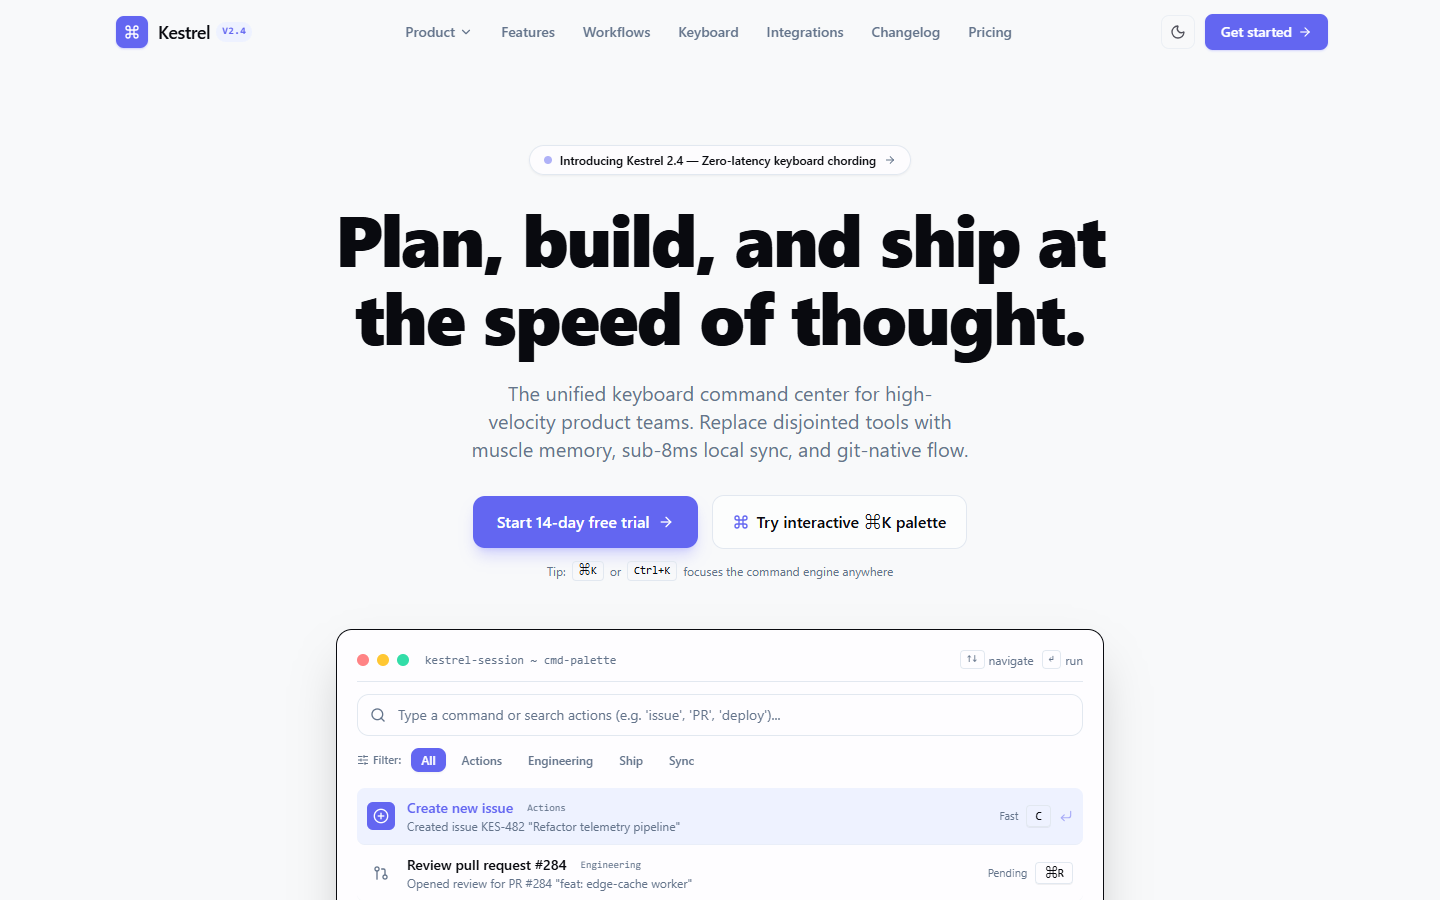
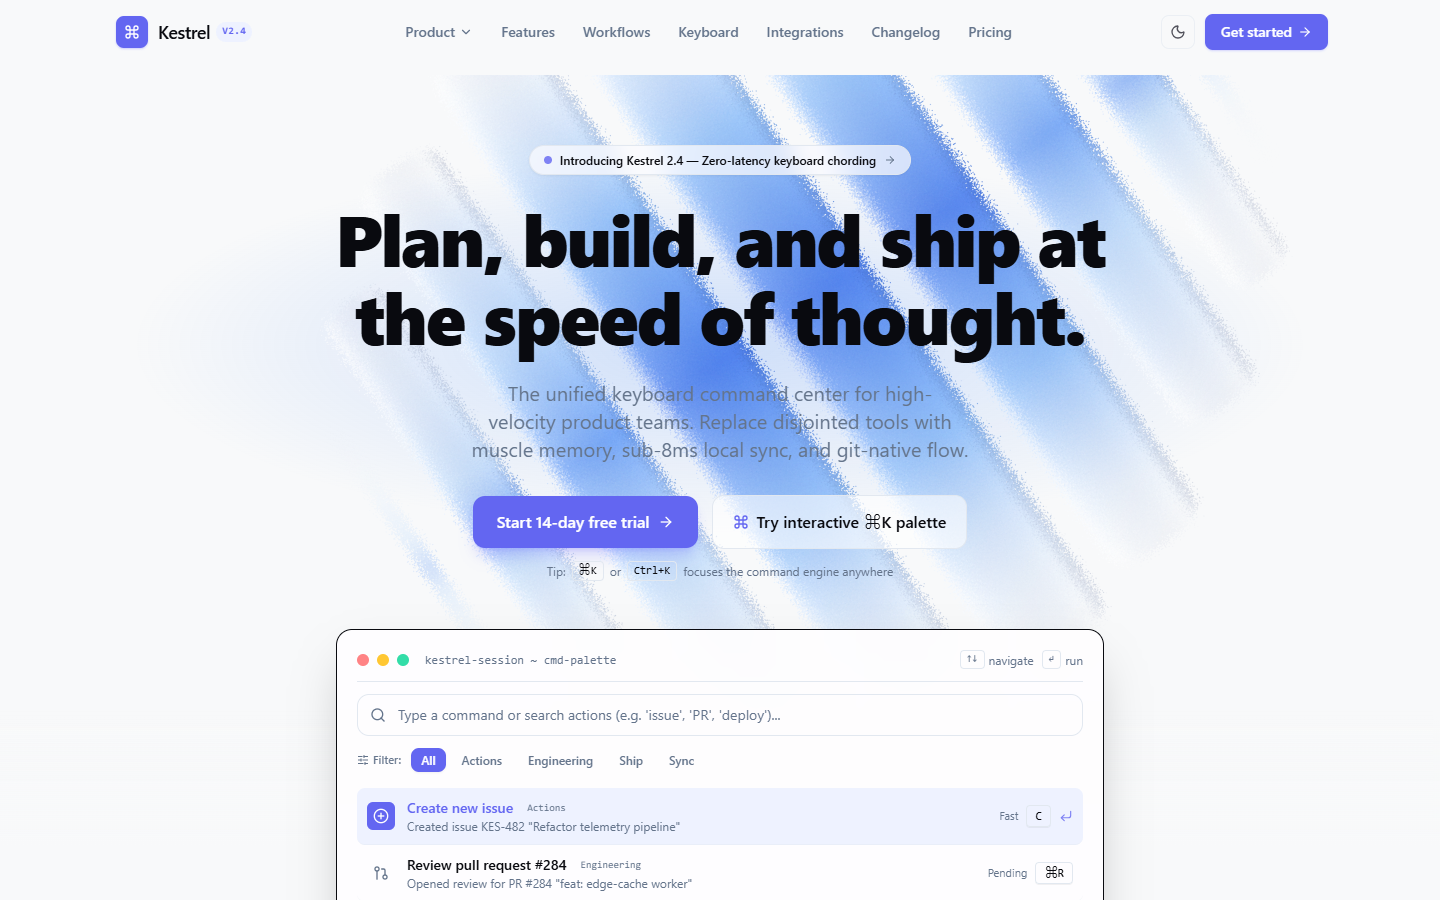
feat: switch hero 3D diagonal slats and glow to electric blue palette

Changed region(s): [[0.25, 0.0622, 0.875, 0.7156], [0.2812, 0.5911, 0.3125, 0.6533]]

diff --git a/components/HeroBackground.js b/components/HeroBackground.js
@@ -93,78 +93,78 @@ export default function HeroBackground() {
 
             {/* 3D Louvre Edge Bevel Gradient (Light Edge Highlight) */}
             <linearGradient id="slat-bevel-dark" x1="0%" y1="0%" x2="100%" y2="0%">
-              <stop offset="0%" stopColor="#ffffff" stopOpacity="0.4" />
-              <stop offset="12%" stopColor="#ffffff" stopOpacity="0.05" />
+              <stop offset="0%" stopColor="#ffffff" stopOpacity="0.45" />
+              <stop offset="12%" stopColor="#ffffff" stopOpacity="0.06" />
               <stop offset="85%" stopColor="#000000" stopOpacity="0" />
-              <stop offset="100%" stopColor="#000000" stopOpacity="0.45" />
+              <stop offset="100%" stopColor="#000000" stopOpacity="0.4" />
             </linearGradient>
 
             <linearGradient id="slat-bevel-light" x1="0%" y1="0%" x2="100%" y2="0%">
-              <stop offset="0%" stopColor="#ffffff" stopOpacity="0.65" />
-              <stop offset="15%" stopColor="#ffffff" stopOpacity="0.12" />
-              <stop offset="85%" stopColor="#4c0519" stopOpacity="0" />
-              <stop offset="100%" stopColor="#2a0812" stopOpacity="0.12" />
+              <stop offset="0%" stopColor="#ffffff" stopOpacity="0.7" />
+              <stop offset="15%" stopColor="#ffffff" stopOpacity="0.15" />
+              <stop offset="85%" stopColor="#1e3a8a" stopOpacity="0" />
+              <stop offset="100%" stopColor="#172554" stopOpacity="0.15" />
             </linearGradient>
 
-            {/* Dark Theme Longitudinal Gradients (Fiery Crimson / Ruby Red) */}
+            {/* Dark Theme Longitudinal Gradients (Electric Blue / Sapphire) */}
             <linearGradient id="slat-dark-center" x1="0%" y1="0%" x2="0%" y2="100%">
-              <stop offset="0%" stopColor="#4c0519" stopOpacity="0" />
-              <stop offset="8%" stopColor="#9f1239" stopOpacity="0.3" />
-              <stop offset="25%" stopColor="#e11d48" stopOpacity="0.95" />
-              <stop offset="50%" stopColor="#fda4af" stopOpacity="1" />
-              <stop offset="75%" stopColor="#e11d48" stopOpacity="0.95" />
-              <stop offset="92%" stopColor="#9f1239" stopOpacity="0.25" />
-              <stop offset="100%" stopColor="#4c0519" stopOpacity="0" />
+              <stop offset="0%" stopColor="#0f172a" stopOpacity="0" />
+              <stop offset="8%" stopColor="#1e40af" stopOpacity="0.35" />
+              <stop offset="25%" stopColor="#2563eb" stopOpacity="0.95" />
+              <stop offset="50%" stopColor="#93c5fd" stopOpacity="1" />
+              <stop offset="75%" stopColor="#2563eb" stopOpacity="0.95" />
+              <stop offset="92%" stopColor="#1e40af" stopOpacity="0.3" />
+              <stop offset="100%" stopColor="#0f172a" stopOpacity="0" />
             </linearGradient>
 
             <linearGradient id="slat-dark-mid" x1="0%" y1="0%" x2="0%" y2="100%">
-              <stop offset="0%" stopColor="#4c0519" stopOpacity="0" />
-              <stop offset="10%" stopColor="#881337" stopOpacity="0.25" />
-              <stop offset="28%" stopColor="#be123c" stopOpacity="0.9" />
-              <stop offset="50%" stopColor="#fb7185" stopOpacity="0.95" />
-              <stop offset="72%" stopColor="#be123c" stopOpacity="0.9" />
-              <stop offset="90%" stopColor="#881337" stopOpacity="0.2" />
-              <stop offset="100%" stopColor="#4c0519" stopOpacity="0" />
+              <stop offset="0%" stopColor="#08080b" stopOpacity="0" />
+              <stop offset="10%" stopColor="#1d4ed8" stopOpacity="0.3" />
+              <stop offset="28%" stopColor="#3b82f6" stopOpacity="0.9" />
+              <stop offset="50%" stopColor="#60a5fa" stopOpacity="0.95" />
+              <stop offset="72%" stopColor="#3b82f6" stopOpacity="0.9" />
+              <stop offset="90%" stopColor="#1d4ed8" stopOpacity="0.25" />
+              <stop offset="100%" stopColor="#08080b" stopOpacity="0" />
             </linearGradient>
 
             <linearGradient id="slat-dark-outer" x1="0%" y1="0%" x2="0%" y2="100%">
-              <stop offset="0%" stopColor="#2a0812" stopOpacity="0" />
-              <stop offset="15%" stopColor="#4c0519" stopOpacity="0.2" />
-              <stop offset="35%" stopColor="#9f1239" stopOpacity="0.75" />
-              <stop offset="50%" stopColor="#e11d48" stopOpacity="0.8" />
-              <stop offset="65%" stopColor="#9f1239" stopOpacity="0.75" />
-              <stop offset="85%" stopColor="#4c0519" stopOpacity="0.15" />
-              <stop offset="100%" stopColor="#2a0812" stopOpacity="0" />
+              <stop offset="0%" stopColor="#08080b" stopOpacity="0" />
+              <stop offset="15%" stopColor="#1e3a8a" stopOpacity="0.25" />
+              <stop offset="35%" stopColor="#2563eb" stopOpacity="0.75" />
+              <stop offset="50%" stopColor="#3b82f6" stopOpacity="0.8" />
+              <stop offset="65%" stopColor="#2563eb" stopOpacity="0.75" />
+              <stop offset="85%" stopColor="#1e3a8a" stopOpacity="0.2" />
+              <stop offset="100%" stopColor="#08080b" stopOpacity="0" />
             </linearGradient>
 
-            {/* Light Theme Longitudinal Gradients (Frosted Rose / Coral Tints) */}
+            {/* Light Theme Longitudinal Gradients (Frosted Ice Blue / Sapphire Tints) */}
             <linearGradient id="slat-light-center" x1="0%" y1="0%" x2="0%" y2="100%">
-              <stop offset="0%" stopColor="#ffe4e6" stopOpacity="0" />
-              <stop offset="10%" stopColor="#fecdd3" stopOpacity="0.25" />
-              <stop offset="28%" stopColor="#fb7185" stopOpacity="0.55" />
-              <stop offset="50%" stopColor="#e11d48" stopOpacity="0.7" />
-              <stop offset="72%" stopColor="#fb7185" stopOpacity="0.55" />
-              <stop offset="90%" stopColor="#fecdd3" stopOpacity="0.2" />
-              <stop offset="100%" stopColor="#ffe4e6" stopOpacity="0" />
+              <stop offset="0%" stopColor="#dbeafe" stopOpacity="0" />
+              <stop offset="10%" stopColor="#bfdbfe" stopOpacity="0.3" />
+              <stop offset="28%" stopColor="#60a5fa" stopOpacity="0.6" />
+              <stop offset="50%" stopColor="#2563eb" stopOpacity="0.75" />
+              <stop offset="72%" stopColor="#60a5fa" stopOpacity="0.6" />
+              <stop offset="90%" stopColor="#bfdbfe" stopOpacity="0.25" />
+              <stop offset="100%" stopColor="#dbeafe" stopOpacity="0" />
             </linearGradient>
 
             <linearGradient id="slat-light-mid" x1="0%" y1="0%" x2="0%" y2="100%">
-              <stop offset="0%" stopColor="#fff1f2" stopOpacity="0" />
-              <stop offset="12%" stopColor="#fecdd3" stopOpacity="0.2" />
-              <stop offset="32%" stopColor="#fb7185" stopOpacity="0.45" />
-              <stop offset="50%" stopColor="#e11d48" stopOpacity="0.6" />
-              <stop offset="68%" stopColor="#fb7185" stopOpacity="0.45" />
-              <stop offset="88%" stopColor="#fecdd3" stopOpacity="0.15" />
-              <stop offset="100%" stopColor="#fff1f2" stopOpacity="0" />
+              <stop offset="0%" stopColor="#eff6ff" stopOpacity="0" />
+              <stop offset="12%" stopColor="#bfdbfe" stopOpacity="0.25" />
+              <stop offset="32%" stopColor="#93c5fd" stopOpacity="0.5" />
+              <stop offset="50%" stopColor="#3b82f6" stopOpacity="0.65" />
+              <stop offset="68%" stopColor="#93c5fd" stopOpacity="0.5" />
+              <stop offset="88%" stopColor="#bfdbfe" stopOpacity="0.2" />
+              <stop offset="100%" stopColor="#eff6ff" stopOpacity="0" />
             </linearGradient>
 
             <linearGradient id="slat-light-outer" x1="0%" y1="0%" x2="0%" y2="100%">
               <stop offset="0%" stopColor="#f8f9fa" stopOpacity="0" />
-              <stop offset="18%" stopColor="#fecdd3" stopOpacity="0.15" />
-              <stop offset="40%" stopColor="#fb7185" stopOpacity="0.35" />
-              <stop offset="50%" stopColor="#e11d48" stopOpacity="0.45" />
-              <stop offset="60%" stopColor="#fb7185" stopOpacity="0.35" />
-              <stop offset="82%" stopColor="#fecdd3" stopOpacity="0.1" />
+              <stop offset="18%" stopColor="#dbeafe" stopOpacity="0.2" />
+              <stop offset="40%" stopColor="#93c5fd" stopOpacity="0.4" />
+              <stop offset="50%" stopColor="#3b82f6" stopOpacity="0.5" />
+              <stop offset="60%" stopColor="#93c5fd" stopOpacity="0.4" />
+              <stop offset="82%" stopColor="#dbeafe" stopOpacity="0.15" />
               <stop offset="100%" stopColor="#f8f9fa" stopOpacity="0" />
             </linearGradient>
 

diff --git a/app/globals.css b/app/globals.css
@@ -11,7 +11,7 @@
   --accent-subtle: #eef2ff;
   --card-border: rgba(0, 0, 0, 0.08);
   --stripe: color-mix(in oklab, var(--accent) 7%, transparent);
-  --glow: rgba(59, 130, 246, 0.18);
+  --glow: rgba(59, 130, 246, 0.22);
   --grain: 0.03;
 }
 
@@ -26,7 +26,7 @@
   --accent-subtle: rgba(99, 102, 241, 0.14);
   --card-border: rgba(255, 255, 255, 0.08);
   --stripe: color-mix(in oklab, var(--accent) 12%, transparent);
-  --glow: rgba(99, 102, 241, 0.30);
+  --glow: rgba(37, 99, 235, 0.36);
   --grain: 0.05;
 }
 
